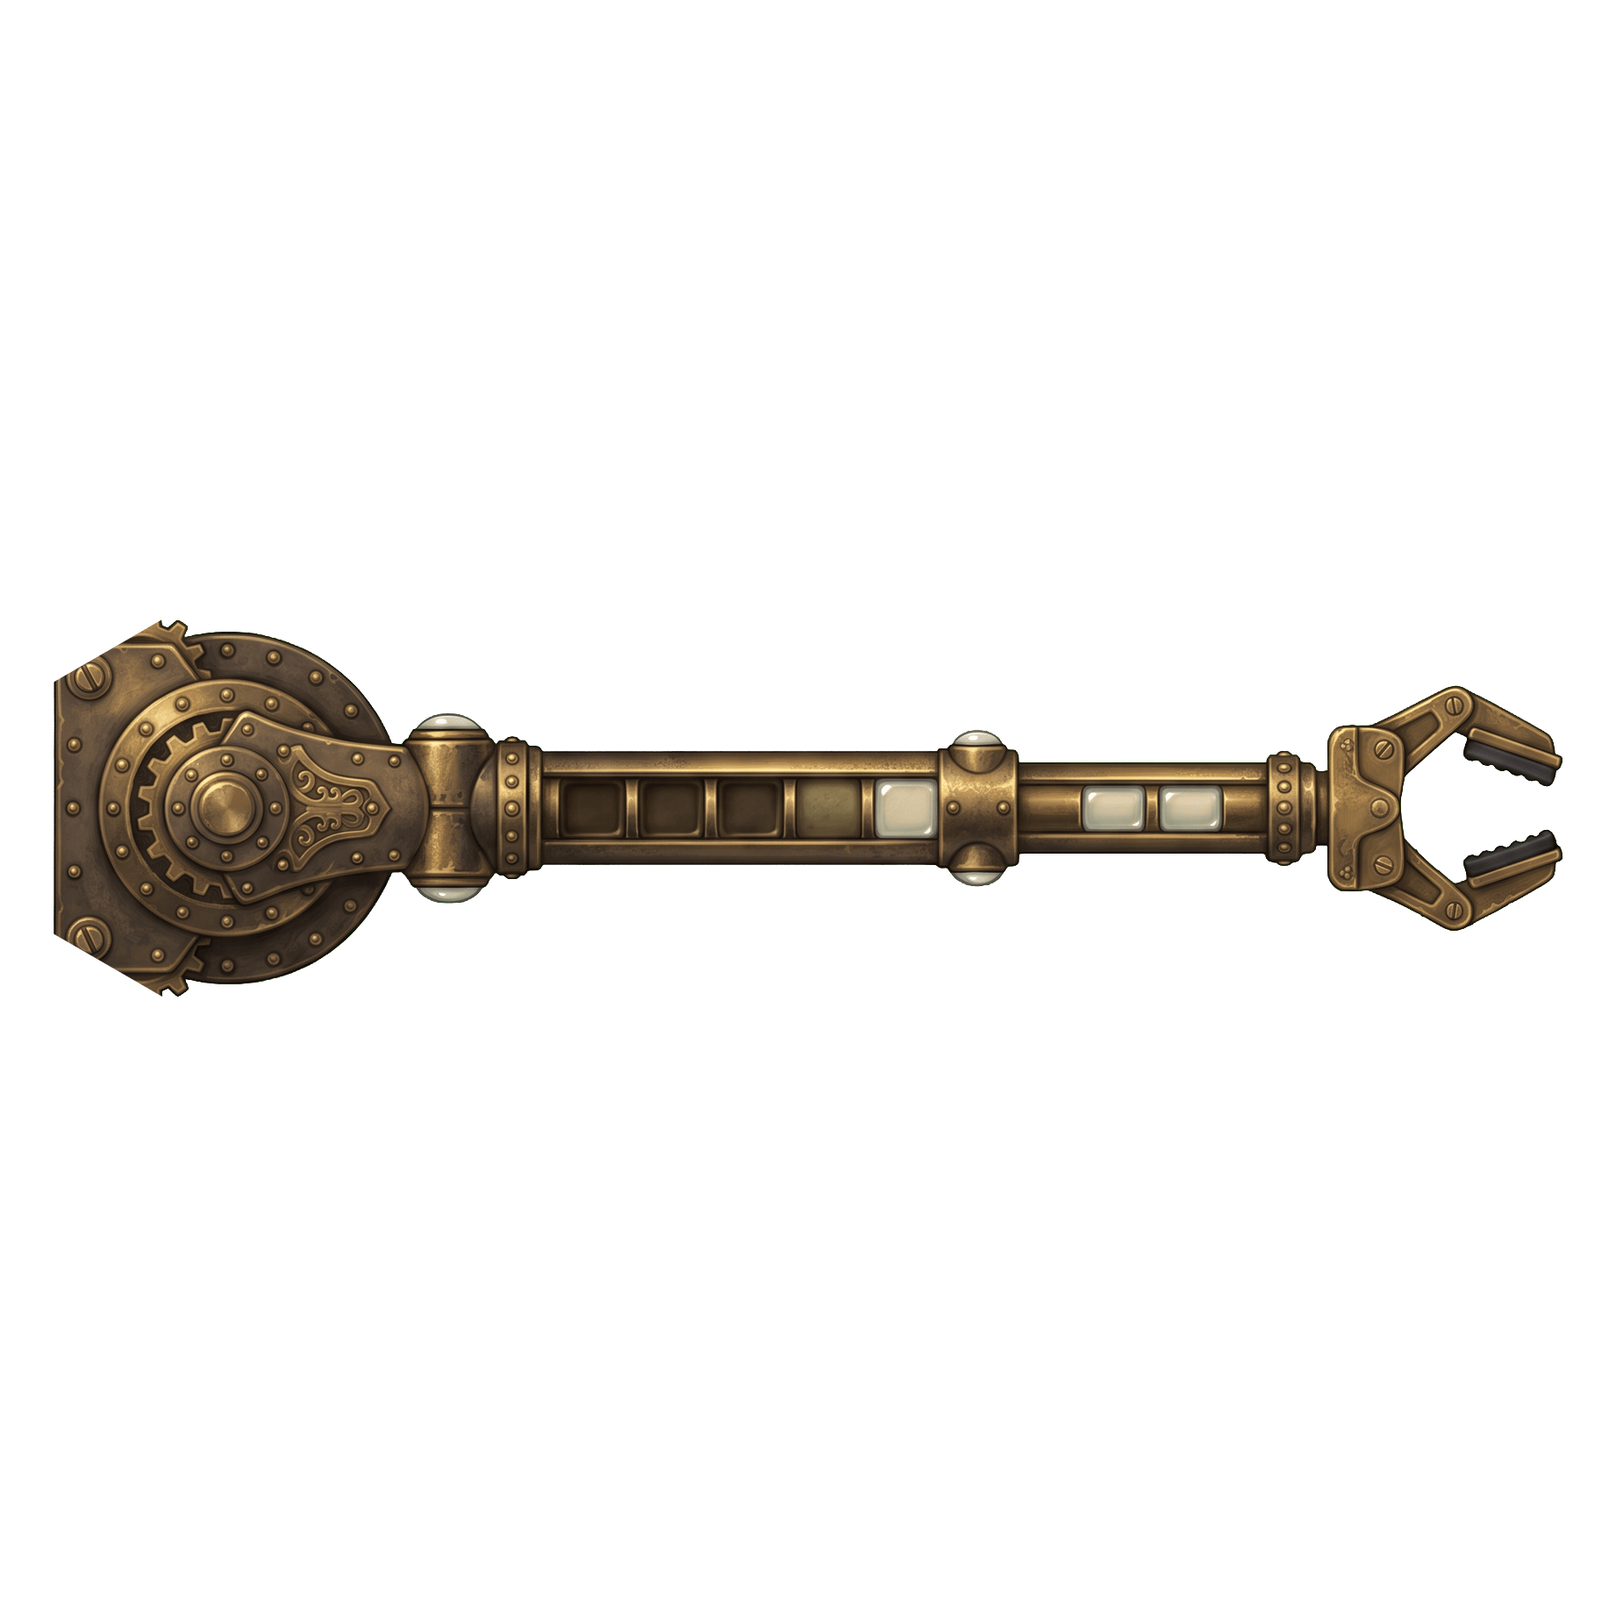
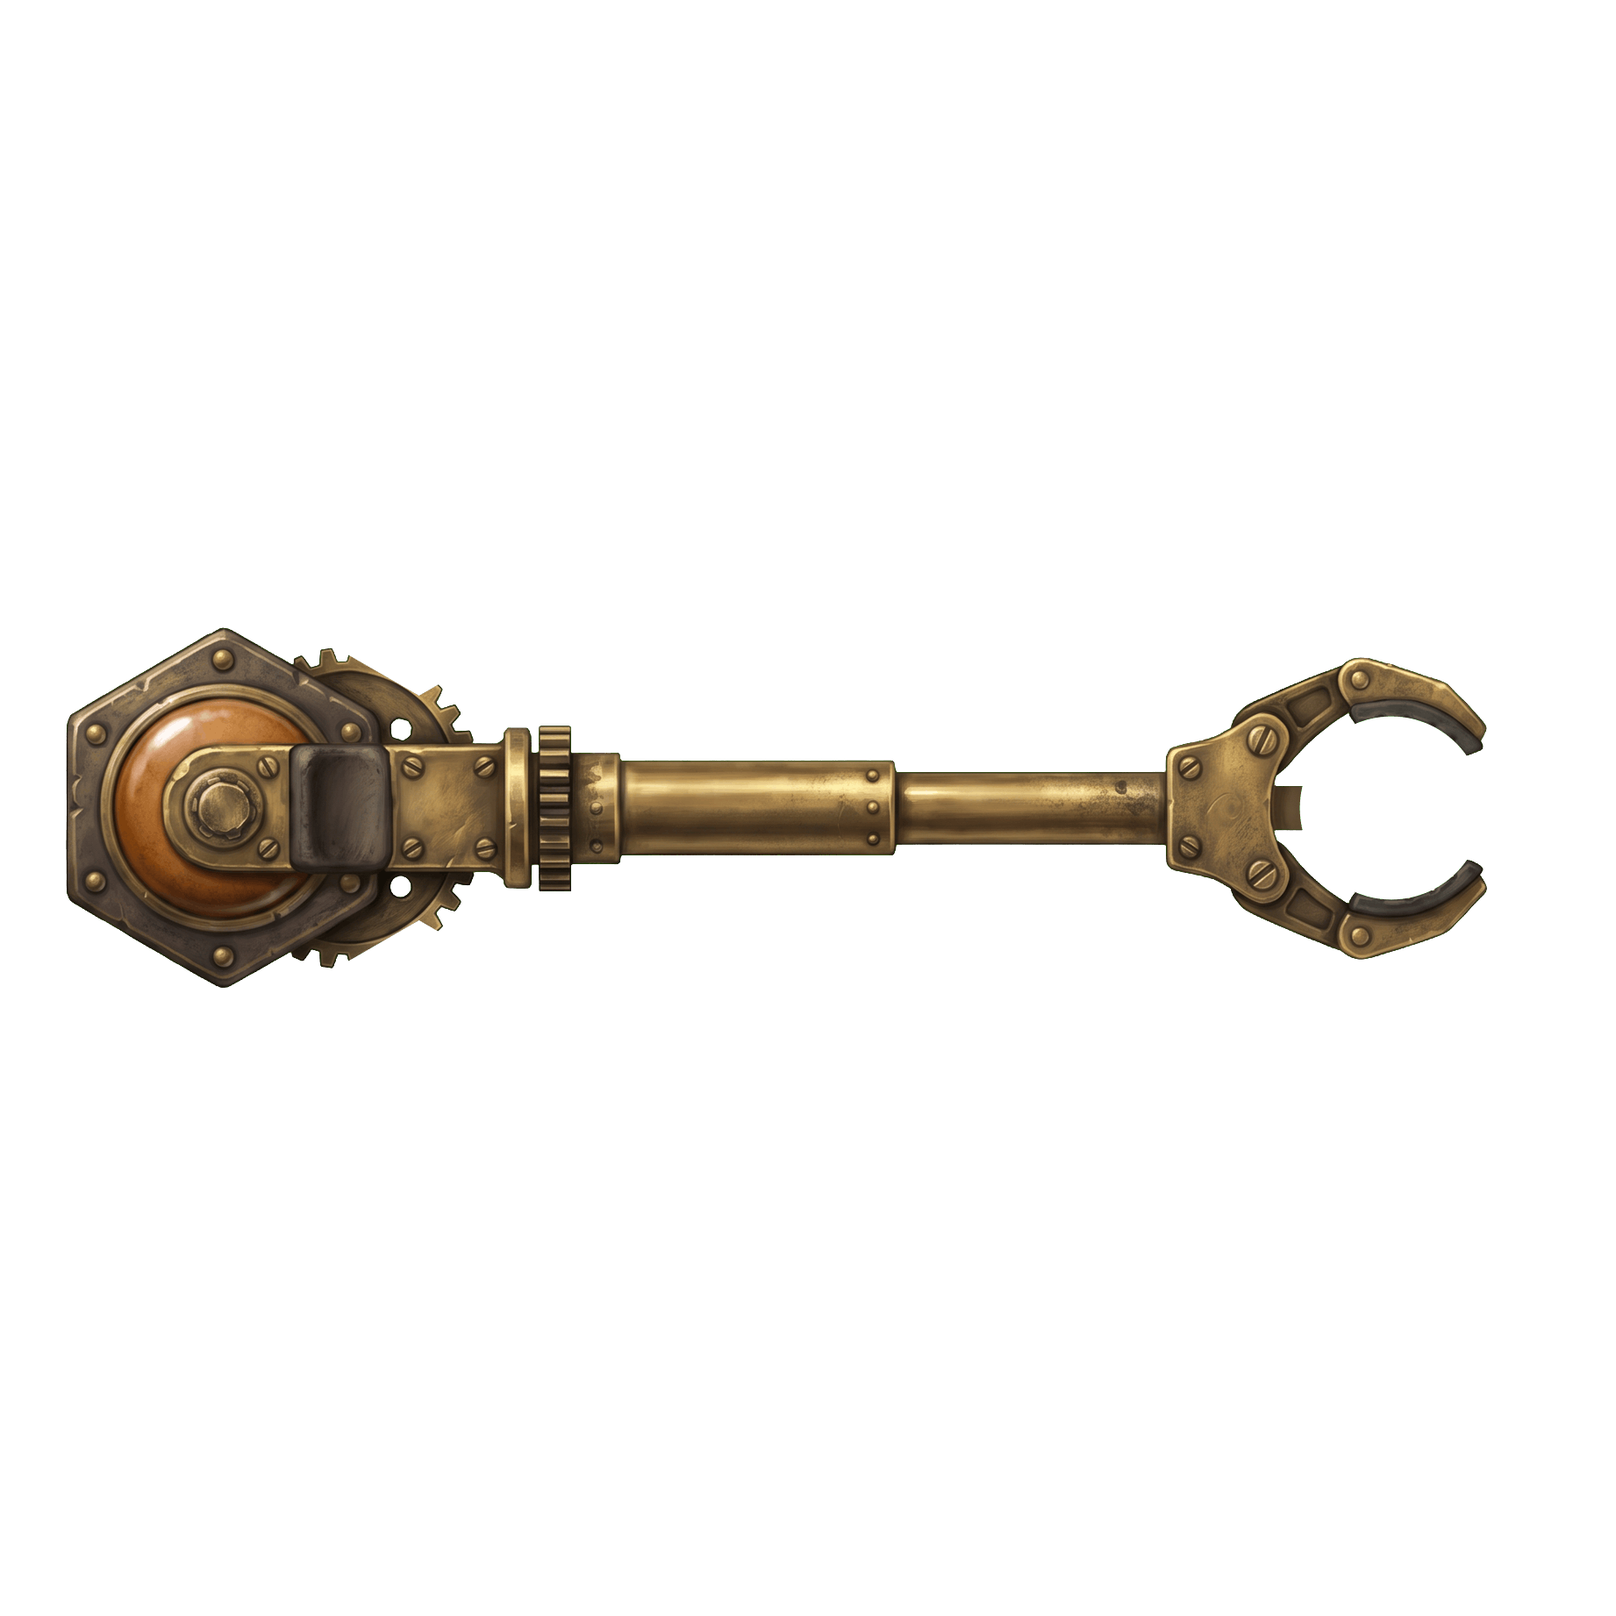
Centre each arm's hand on its tile with an atom-sized ball in the layout
An arm's paint layout carries a flat magenta ball exactly an atom's size
on its hand tile, and the prompt says the jaws close around it, adding
no shape words. A return is rejected when the ball shows under half its
area or its centre sits more than 0.03 hex off the hand tile's centre;
the ball and its fringe are then cleared to transparency, so a held atom
covers the opening exactly and an empty hand shows the board. Nothing
scales or rotates a return.

The surround check now weighs partly keyed texels by their opacity and
allows half a percent instead of a tenth, so a muted backdrop that left a
haze over the footprint, or a linkage cut off at the footprint edge, is
painted again.

Directive (verbatim): "yeah lets not ask for circluar grippers, scaling
arms might not work well because it changes the gripper size from atom
size. our selected image model can take an input image an edit it, yes?
if so, would it work to stick a ball in the template image for the
generator model to work around?"

Regenerated: arm, arm-2, arm-3 (ball offsets 0.000, 0.001, 0.004 hex).

Changed region(s): [[0.0309, 0.3713, 0.9902, 0.6189]]

diff --git a/src/paint.rs b/src/paint.rs
@@ -1,4 +1,4 @@
-use crate::look::{self, HEX, Role, hex_norm, px};
+use crate::look::{self, ATOM_RADIUS, HEX, Role, hex_norm, px};
 use crate::sim::{DIRS, Hex, Machine, ORIGIN};
 use bevy::math::Vec2;
 use image::codecs::png::{CompressionType, FilterType, PngEncoder};
@@ -14,10 +14,14 @@ const LAYOUT_PX: u32 = 1024;
 const BEAM: f32 = 0.1;
 const ATTEMPTS: usize = 4;
 const BLEED: usize = 16;
-const SPILL: f32 = 0.1;
+const SPILL: f32 = 0.005;
 const MARGIN: f32 = 0.25;
 const WORKERS: usize = 4;
 const KEY: [u8; 3] = [0, 255, 0];
+const BALL: [u8; 3] = [255, 0, 255];
+const TOLERANCE: f32 = 0.03;
+const VISIBLE: f32 = 0.5;
+const FRINGE: f32 = 2.0;
 const OPAQUE: f32 = 0.15;
 const CLEAR: f32 = 0.4;
 const HELD: f32 = 0.3;
@@ -30,6 +34,7 @@ const GENERATOR: &str = include_str!("../art/paint/default");
 struct Manifest {
     layout: String,
     family: String,
+    ball: String,
     style: String,
     machine: BTreeMap<String, Entry>,
 }
@@ -59,12 +64,23 @@ fn prompt(manifest: &Manifest, item: Machine) -> String {
         Some(_) => format!(" {}", manifest.family),
         None => String::new(),
     };
+    let ball = match hand(item) {
+        Some(_) => format!(" {}", manifest.ball),
+        None => String::new(),
+    };
     format!(
-        "{} {}{family} {}",
+        "{}{ball} {}{family} {}",
         manifest.layout,
         caption(manifest, item),
         manifest.style
     )
+}
+
+fn hand(item: Machine) -> Option<Vec2> {
+    look::footprint(item)
+        .iter()
+        .find(|cell| cell.role == Role::Hand)
+        .map(|cell| px(cell.at))
 }
 
 fn like(manifest: &Manifest, item: Machine) -> Option<Machine> {
@@ -163,6 +179,7 @@ fn layout(item: Machine) -> RgbaImage {
             .map(|cell| px(cell.at))
     };
     let beam = role(Role::Pivot).zip(role(Role::Hand));
+    let ball = hand(item);
     let emerges = |at: Hex| match item {
         Machine::Glyph(kind) => kind.product() == Some(at) || kind.is_source(),
         _ => false,
@@ -202,6 +219,9 @@ fn layout(item: Machine) -> RgbaImage {
             let inside = frame.cover((INSET - hex_norm(d.x, d.y)) * HEX);
             rgb = mix(rgb, *tint, amount * inside);
         }
+        if let Some(hand) = ball {
+            rgb = mix(rgb, BALL, frame.cover(ATOM_RADIUS - at.distance(hand)));
+        }
         let [r, g, b] = rgb;
         image::Rgba([r, g, b, 255])
     })
@@ -210,6 +230,42 @@ fn layout(item: Machine) -> RgbaImage {
 fn matte(rgb: [f32; 3]) -> f32 {
     let [r, g, b] = rgb;
     1.0 - ((g - r.max(b) - OPAQUE) / (CLEAR - OPAQUE)).clamp(0.0, 1.0)
+}
+
+fn ball(rgb: [f32; 3]) -> f32 {
+    let [r, g, b] = rgb;
+    ((r.min(b) - g - OPAQUE) / (CLEAR - OPAQUE)).clamp(0.0, 1.0)
+}
+
+fn unmix(rgb: [f32; 3], ball: f32) -> [f32; 3] {
+    let key = BALL.map(|c| f32::from(c) / 255.0);
+    std::array::from_fn(|c| ((rgb[c] - ball * key[c]) / (1.0 - ball)).clamp(0.0, 1.0))
+}
+
+fn locate(item: Machine, image: &RgbaImage) -> Result<Option<f32>, String> {
+    let Some(hand) = hand(item) else {
+        return Ok(None);
+    };
+    let frame = Frame::new(item, image.width());
+    let (mut area, mut sum) = (0.0, Vec2::ZERO);
+    for (x, y, pixel) in image.enumerate_pixels() {
+        let weight = ball([0, 1, 2].map(|c| f32::from(pixel[c]) / 255.0));
+        area += weight;
+        sum += frame.world(x, y) * weight;
+    }
+    let texel = frame.side / frame.px;
+    let expected = std::f32::consts::PI * (ATOM_RADIUS / texel).powi(2);
+    if area < VISIBLE * expected {
+        return Err(format!(
+            "the ball shows {:.0}% of its area",
+            100.0 * area / expected
+        ));
+    }
+    let offset = (sum / area).distance(hand) / HEX;
+    if offset > TOLERANCE {
+        return Err(format!("the ball is {offset:.3} hex off its tile centre"));
+    }
+    Ok(Some(offset))
 }
 
 fn despill(rgb: [f32; 3], keyed: f32) -> [f32; 3] {
@@ -264,6 +320,7 @@ struct Sprite {
     image: RgbaImage,
     fill: f32,
     spill: f32,
+    offset: Option<f32>,
 }
 
 fn finish(item: Machine, raw: &RgbaImage) -> Result<Sprite, String> {
@@ -277,6 +334,7 @@ fn finish(item: Machine, raw: &RgbaImage) -> Result<Sprite, String> {
     } else {
         imageops::resize(raw, side, side, imageops::FilterType::Lanczos3)
     };
+    let offset = locate(item, &image)?;
     let frame = Frame::new(item, side);
     let shape = Footprint::of(item);
     let (mut covered, mut filled, mut outside, mut spilled) = (0.0, 0.0, 0.0, 0.0);
@@ -285,16 +343,22 @@ fn finish(item: Machine, raw: &RgbaImage) -> Result<Sprite, String> {
         let depth = shape.depth(frame.world(x, y));
         let inside = frame.cover(depth);
         let keyed = matte(rgb);
-        let painted = keyed * f32::from(pixel[3]) / 255.0;
+        let held = match (offset, hand(item)) {
+            (Some(_), Some(hand)) => ball(rgb).max(frame.cover(
+                ATOM_RADIUS + FRINGE * frame.side / frame.px - frame.world(x, y).distance(hand),
+            )),
+            _ => 0.0,
+        };
+        let painted = keyed * (1.0 - held) * f32::from(pixel[3]) / 255.0;
         let alpha = painted * inside;
         covered += inside;
         filled += alpha;
         if depth < -MARGIN * HEX {
             outside += 1.0;
-            spilled += f32::from(painted >= 1.0);
+            spilled += painted;
         }
         let [r, g, b] = if alpha > 0.0 {
-            despill(rgb, keyed).map(|c| (c * 255.0).round() as u8)
+            despill(unmix(rgb, held), keyed).map(|c| (c * 255.0).round() as u8)
         } else {
             [0, 0, 0]
         };
@@ -311,6 +375,7 @@ fn finish(item: Machine, raw: &RgbaImage) -> Result<Sprite, String> {
         image,
         fill: filled / covered,
         spill: spilled / outside,
+        offset,
     })
 }
 
@@ -498,18 +563,22 @@ pub fn run(args: &[String]) -> Option<i32> {
                         }) {
                             Ok(painted) => {
                                 format!(
-                                    "{name}\t{generator}\t{}\t{cost:.4}\t{}x{}\t{}\t{:.3}\t{:.3}\t{words}\n",
+                                    "{name}\t{generator}\t{}\t{cost:.4}\t{}x{}\t{}\t{:.3}\t{:.3}\t{}\t{words}\n",
                                     painted.attempts,
                                     painted.raw.0,
                                     painted.raw.1,
                                     side(item),
                                     painted.sprite.fill,
                                     painted.sprite.spill,
+                                    painted
+                                        .sprite
+                                        .offset
+                                        .map_or(String::new(), |offset| format!("{offset:.3}")),
                                 )
                             }
                             Err(error) => {
                                 eprintln!("{error}");
-                                format!("{name}\t{generator}\tfailed\t{cost:.4}\t\t\t\t\t{words}\n")
+                                format!("{name}\t{generator}\tfailed\t{cost:.4}\t\t\t\t\t\t{words}\n")
                             }
                         };
                         rows.push((items.iter().position(|i| *i == item).unwrap_or(0), row));
@@ -526,7 +595,7 @@ pub fn run(args: &[String]) -> Option<i32> {
     rows.sort();
     let table = rows.into_iter().fold(
         String::from(
-            "machine\tgenerator\tattempts\tcost_usd\treturn\tside\tfill\tspill\tcaption_words\n",
+            "machine\tgenerator\tattempts\tcost_usd\treturn\tside\tfill\tspill\tball_offset_hex\tcaption_words\n",
         ),
         |table, (_, row)| table + &row,
     );
@@ -624,6 +693,77 @@ mod tests {
         std::fs::remove_dir_all(dir).unwrap();
     }
 
+    fn arms() -> [Machine; 3] {
+        crate::sim::ArmLength::ALL.map(Machine::Arm)
+    }
+
+    #[test]
+    fn no_glaze_and_not_the_key_reads_as_the_ball() {
+        for glaze in look::Glaze::ALL {
+            assert_eq!(ball(glaze.rgb()), 0.0, "{glaze:?}");
+        }
+        assert_eq!(ball(KEY.map(|c| f32::from(c) / 255.0)), 0.0);
+    }
+
+    #[test]
+    fn the_ball_is_found_on_its_hand_and_cleared_from_the_sprite() {
+        for item in arms() {
+            let sprite = finish(item, &layout(item)).unwrap();
+            let offset = sprite.offset.unwrap();
+            assert!(offset < 0.005, "{} ball {offset} hex off", look::name(item));
+            let frame = Frame::new(item, sprite.image.width());
+            let hand = hand(item).unwrap();
+            let kept = sprite
+                .image
+                .enumerate_pixels()
+                .filter(|(x, y, p)| {
+                    p[3] > 0 && frame.world(*x, *y).distance(hand) < 0.95 * ATOM_RADIUS
+                })
+                .count();
+            assert_eq!(kept, 0, "{} keeps {kept} px of its ball", look::name(item));
+        }
+    }
+
+    #[test]
+    fn a_ball_moved_off_its_tile_centre_is_rejected() {
+        for item in arms() {
+            let raw = layout(item);
+            let shift = (0.05 * HEX / look::quad(item).side * LAYOUT_PX as f32).round() as u32;
+            let moved = RgbaImage::from_fn(LAYOUT_PX, LAYOUT_PX, |x, y| {
+                *raw.get_pixel(x.saturating_sub(shift), y)
+            });
+            let error = finish(item, &moved).err().unwrap();
+            assert!(error.contains("hex off its tile centre"), "{error}");
+        }
+    }
+
+    #[test]
+    fn a_return_that_drops_the_ball_is_rejected() {
+        for item in arms() {
+            let mut raw = layout(item);
+            for pixel in raw.pixels_mut() {
+                if ball([0, 1, 2].map(|c| f32::from(pixel[c]) / 255.0)) > 0.0 {
+                    *pixel = image::Rgba([107, 79, 58, 255]);
+                }
+            }
+            let error = finish(item, &raw).err().unwrap();
+            assert!(error.contains("the ball shows 0%"), "{error}");
+        }
+    }
+
+    #[test]
+    fn only_arms_are_asked_to_hold_the_ball() {
+        let manifest = manifest();
+        for item in Machine::ALL {
+            assert_eq!(
+                prompt(&manifest, item).contains(&manifest.ball),
+                matches!(item, Machine::Arm(_)),
+                "{}",
+                look::name(item)
+            );
+        }
+    }
+
     #[test]
     fn the_portal_sprite_is_clear_across_its_hole() {
         let item = Machine::Portal;
@@ -649,6 +789,13 @@ mod tests {
     fn a_return_that_paints_its_surround_is_rejected() {
         let filled = RgbaImage::from_pixel(1024, 1024, image::Rgba([128, 90, 60, 255]));
         let error = finish(Machine::Portal, &filled).err().unwrap();
+        assert!(error.contains("surround is painted"), "{error}");
+    }
+
+    #[test]
+    fn a_muted_green_surround_is_rejected_not_left_as_a_haze() {
+        let muted = RgbaImage::from_pixel(1024, 1024, image::Rgba([122, 184, 102, 255]));
+        let error = finish(Machine::Portal, &muted).err().unwrap();
         assert!(error.contains("surround is painted"), "{error}");
     }
 

diff --git a/src/main.rs b/src/main.rs
@@ -29,7 +29,7 @@ use bevy::sprite_render::{AlphaMode2d, Material2d, Material2dPlugin};
 use bevy::ui::IsDefaultUiCamera;
 use bevy::window::{CursorLeft, PrimaryWindow};
 use form::{Form, Fragment, atom_machine, recipes};
-use look::{Finish, Glaze, HEX, Look, MANUAL, MachineMark, Shape, Skin, px, skin};
+use look::{ATOM_RADIUS, Finish, Glaze, HEX, Look, MANUAL, MachineMark, Shape, Skin, px, skin};
 use sim::{
     Arm, ArmLength, BondKind, DIRS, Fixture, Glyph, GlyphKind, Hex, Id, Instr, Item, Machine,
     ORIGIN, Short, Sim, Spin, Stall, fixture,
@@ -44,7 +44,6 @@ const FOCUS: Hex = Hex::new(0, -1);
 const MAX_GRID_CELLS: f32 = 6000.0;
 const STRIP_ROWS: usize = 8;
 const DRAG_PX: f32 = 6.0;
-const ATOM_RADIUS: f32 = HEX * 0.4;
 const LINE_PX: f32 = 3.0;
 const SYMBOL_PX: f32 = 26.0;
 const MANUAL_PX: f32 = 1024.0;

diff --git a/src/look.rs b/src/look.rs
@@ -8,6 +8,7 @@ use std::ops::RangeInclusive;
 
 pub const HEX: f32 = 20.0;
 pub const HOLE: f32 = 0.55 * HEX;
+pub const ATOM_RADIUS: f32 = 0.4 * HEX;
 const MARGIN: f32 = 1.0;
 const FACE: f32 = 458.0 / 512.0;
 const STROKE: f32 = 34.0 / 512.0;

diff --git a/DESIGN.md b/DESIGN.md
@@ -4,7 +4,7 @@ Design decisions and experiments. Art entries below include historical results; 
 
 ## Machine sprites are painted over their footprint
 
-`nix-shell --run 'cargo run --release -- --paint [--generator CMD] [MACHINE...]'` draws one layout per machine from its simulation footprint: the machine's glaze colour fills its hexes, an arm instead gets a thin beam from its pivot tile to its hand, each seat is its own inset tile tinted by what it does (dark uses its piece up, dimmed holds it, pale is where a new piece appears), the portal keeps its hole as key, and everything else is flat chroma green. A seat takes whatever form suits its machine; nothing requires it to be round. A generator is any command run as `CMD OUT.png SIDE LAYOUT.png [SIBLING.png]` with the prompt on stdin, printing its cost; the prompt is a shared layout line, the machine's caption from `art/machines/manifest.toml` and a shared style line. A machine whose entry names `like` is painted with that sibling's shipped sprite attached and a shared family line, so tiers of one family keep one part scale. `art/paint/openrouter.sh MODEL` reaches every OpenRouter image model, `art/paint/layout.sh` returns the layout itself, and `art/paint/default` names the default. The command rejects an off-aspect return, keys out the green, masks the sprite to the union of its footprint hexes and rejects a return that paints more than a tenth of the surround. A rejected return is painted again, four attempts in all; an accepted one becomes `art/machines/<name>/albedo.png` at 256 px per hex. New sprites and their in-game renders are shown before they land on main.
+`nix-shell --run 'cargo run --release -- --paint [--generator CMD] [MACHINE...]'` draws one layout per machine from its simulation footprint: the machine's glaze colour fills its hexes, an arm instead gets a thin beam from its pivot tile to its hand and a flat magenta ball exactly an atom's size on its hand tile, each seat is its own inset tile tinted by what it does (dark uses its piece up, dimmed holds it, pale is where a new piece appears), the portal keeps its hole as key, and everything else is flat chroma green. A seat takes whatever form suits its machine; nothing requires it to be round. A generator is any command run as `CMD OUT.png SIDE LAYOUT.png [SIBLING.png]` with the prompt on stdin, printing its cost; the prompt is a shared layout line, for an arm a ball line saying the jaws close around the ball, the machine's caption from `art/machines/manifest.toml` and a shared style line. A machine whose entry names `like` is painted with that sibling's shipped sprite attached and a shared family line, so tiers of one family keep one part scale. `art/paint/openrouter.sh MODEL` reaches every OpenRouter image model, `art/paint/layout.sh` returns the layout itself, and `art/paint/default` names the default. The command rejects an off-aspect return, keys out the green, masks the sprite to the union of its footprint hexes and rejects a return that paints more than half a percent of the surround, counting partly keyed texels by their opacity, so a muted backdrop or a part cut off at the footprint edge is painted again. An arm's return is rejected when its ball shows less than half its area or its centre sits more than 0.03 hex from the hand tile's centre; the ball measures placement only, so the hand takes any form around it. The ball and its fringe are then cleared to transparency: an atom-sized disc on the hand tile, which a held atom covers exactly and through which the board shows when the hand is empty. Nothing scales or rotates a return to fit. A rejected return is painted again, four attempts in all; an accepted one becomes `art/machines/<name>/albedo.png` at 256 px per hex. New sprites and their in-game renders are shown before they land on main.
 
 The simplest design makes that one layout the only geometric input. Containment is then measured against the footprint that drew it, and seat placement is the layout's own tile, so no critic scores the picture and no prompt accumulates rules correcting a model. A new model is one more command.
 

diff --git a/AGENTS.md b/AGENTS.md
@@ -17,7 +17,7 @@ LAYOUT.png [SIBLING.png]` with the prompt on stdin; it writes a square image of 
 and prints its cost in USD. `art/paint/openrouter.sh MODEL` reaches every OpenRouter
 image model through `OPENROUTER_API_KEY`; `art/paint/layout.sh` returns the layout
 itself. The command keys out flat green, masks each sprite to its hex footprint,
-rejects an off-aspect return or a painted surround, and writes
+rejects an off-aspect return, a painted surround, or an arm whose layout ball moved off its hand tile, clears the ball, and writes
 `art/machines/<name>/albedo.png`. Keep each caption in
 [art/machines/manifest.toml](art/machines/manifest.toml) a declarative picture of a few
 dozen words; machine sprites carry no writing. Show the new sprites and in-game
